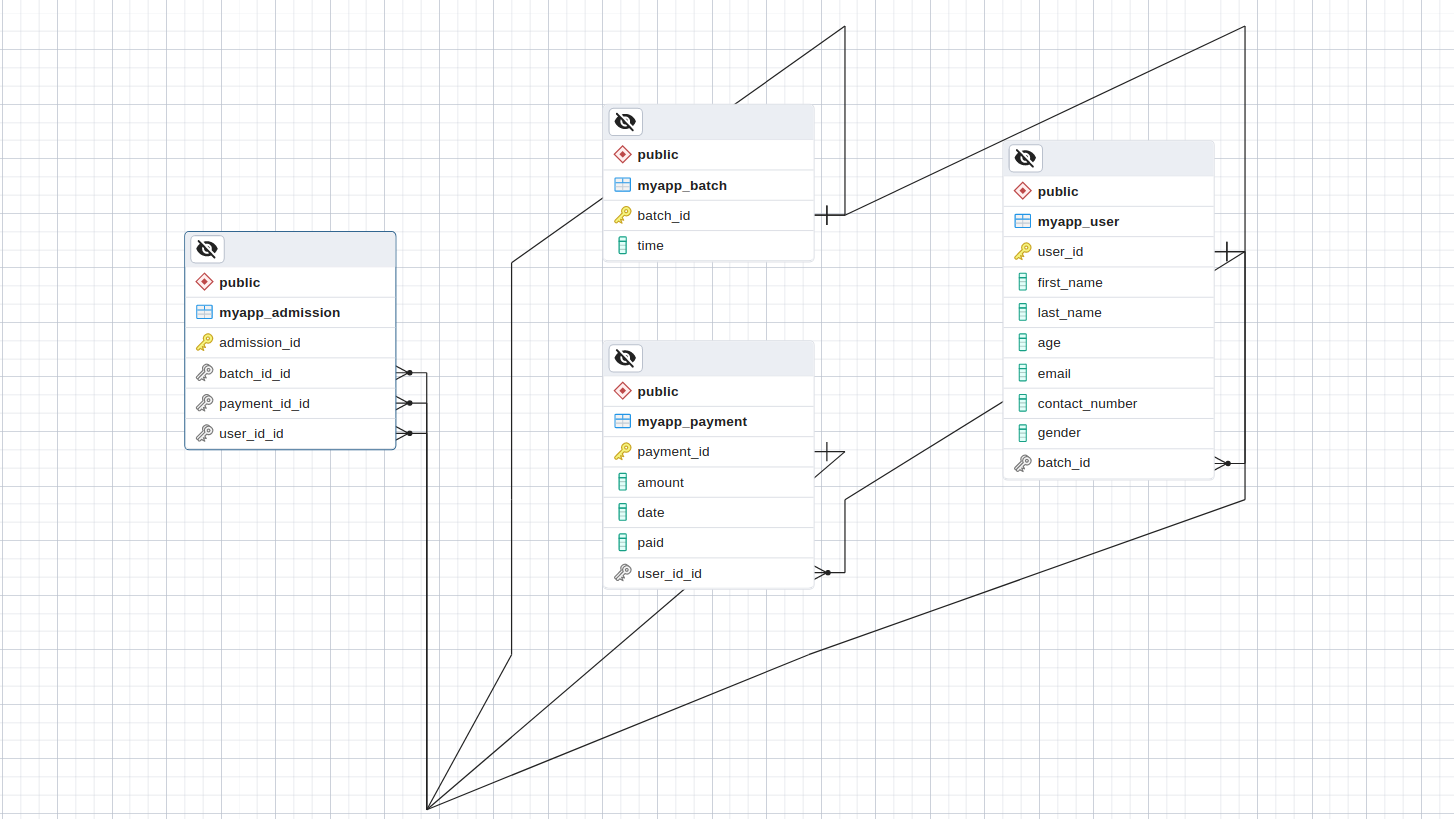
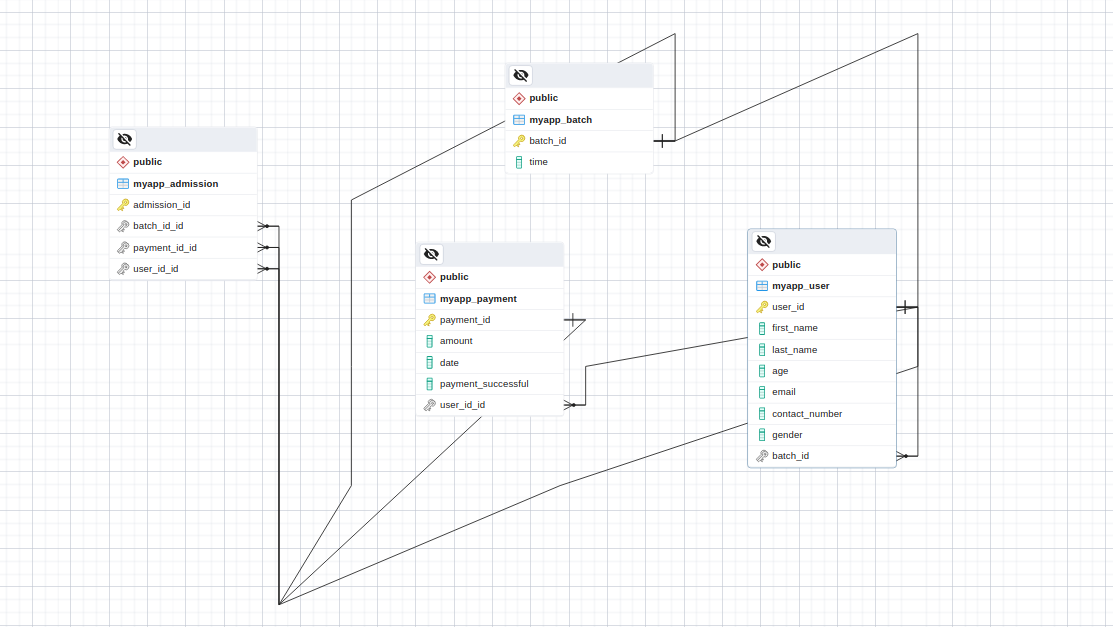
database and er diagram changes

diff --git a/yogaform/myapp/models.py b/yogaform/myapp/models.py
@@ -3,7 +3,7 @@ from django.core.validators import RegexValidator
 # Create your models here.
 
 class User(models.Model):
-    user_id=models.BigAutoField(primary_key=True)
+    user_id=models.AutoField(primary_key=True)
     first_name=models.CharField(max_length=30)
     last_name=models.CharField(max_length=30)
     age=models.PositiveIntegerField()
@@ -20,24 +20,24 @@ class User(models.Model):
     batch=models.ForeignKey('Batch',on_delete=models.CASCADE,null=False)
 
 class Batch(models.Model):
-    batch_id=models.BigAutoField(primary_key=True)
+    batch_id=models.AutoField(primary_key=True)
     SESSION_CHOICES = (
-        ('M', '6-7 AM'),
-        ('M', '7-8 AM'),
-        ('M', '8-9 AM'),
+        ('M1', '6-7 AM'),
+        ('M2', '7-8 AM'),
+        ('M3', '8-9 AM'),
         ('E', '5-6 PM')
     )
     time=models.CharField(max_length=20, choices=SESSION_CHOICES, null=False)
 
 class Payment(models.Model):
-    payment_id=models.BigAutoField(primary_key=True)
+    payment_id=models.AutoField(primary_key=True)
     user_id=models.ForeignKey('User',on_delete=models.CASCADE)
-    amount=models.PositiveBigIntegerField(null=False)
-    date=models.DateField(null=False)
-    paid=models.BooleanField()
+    amount=models.PositiveIntegerField(null=False)
+    date=models.DateTimeField(null=False)
+    payment_successful=models.BooleanField()
 
 class Admission(models.Model):
-    admission_id=models.BigAutoField(primary_key=True)
+    admission_id=models.AutoField(primary_key=True)
     user_id=models.ForeignKey('User',on_delete=models.CASCADE)
     payment_id=models.ForeignKey('Payment',on_delete=models.CASCADE)
     batch_id=models.ForeignKey('Batch',on_delete=models.CASCADE)

diff --git a/yogaform/myapp/migrations/0004_alter_admission_admission_id_alter_batch_batch_id_and_more.py b/yogaform/myapp/migrations/0004_alter_admission_admission_id_alter_batch_batch_id_and_more.py
@@ -1,0 +1,43 @@
+# Generated by Django 4.1.4 on 2022-12-11 07:37
+
+from django.db import migrations, models
+
+
+class Migration(migrations.Migration):
+
+    dependencies = [
+        ('myapp', '0003_rename_paid_payment_payment_successful_and_more'),
+    ]
+
+    operations = [
+        migrations.AlterField(
+            model_name='admission',
+            name='admission_id',
+            field=models.AutoField(primary_key=True, serialize=False),
+        ),
+        migrations.AlterField(
+            model_name='batch',
+            name='batch_id',
+            field=models.AutoField(primary_key=True, serialize=False),
+        ),
+        migrations.AlterField(
+            model_name='payment',
+            name='amount',
+            field=models.PositiveIntegerField(),
+        ),
+        migrations.AlterField(
+            model_name='payment',
+            name='date',
+            field=models.DateTimeField(),
+        ),
+        migrations.AlterField(
+            model_name='payment',
+            name='payment_id',
+            field=models.AutoField(primary_key=True, serialize=False),
+        ),
+        migrations.AlterField(
+            model_name='user',
+            name='user_id',
+            field=models.AutoField(primary_key=True, serialize=False),
+        ),
+    ]

diff --git a/yogaform/myapp/migrations/0003_rename_paid_payment_payment_successful_and_more.py b/yogaform/myapp/migrations/0003_rename_paid_payment_payment_successful_and_more.py
@@ -1,0 +1,23 @@
+# Generated by Django 4.1.4 on 2022-12-11 07:26
+
+from django.db import migrations, models
+
+
+class Migration(migrations.Migration):
+
+    dependencies = [
+        ('myapp', '0002_payment_admission'),
+    ]
+
+    operations = [
+        migrations.RenameField(
+            model_name='payment',
+            old_name='paid',
+            new_name='payment_successful',
+        ),
+        migrations.AlterField(
+            model_name='batch',
+            name='time',
+            field=models.CharField(choices=[('M1', '6-7 AM'), ('M2', '7-8 AM'), ('M3', '8-9 AM'), ('E', '5-6 PM')], max_length=20),
+        ),
+    ]
